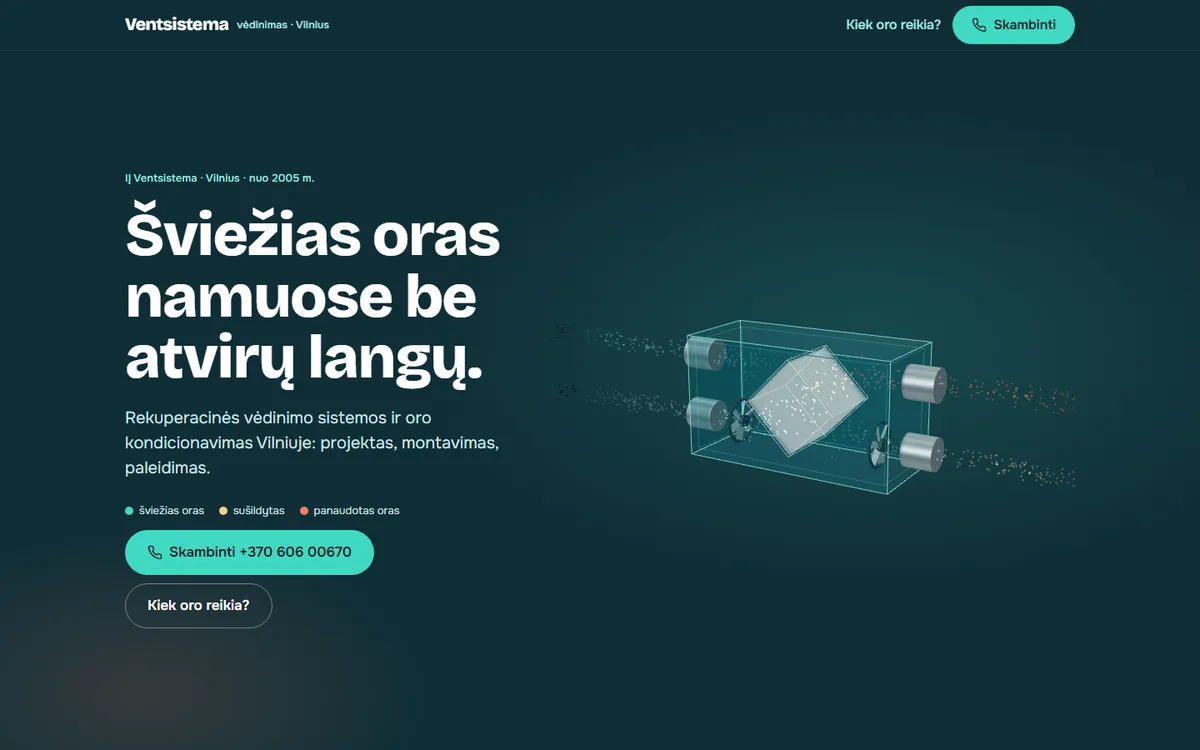
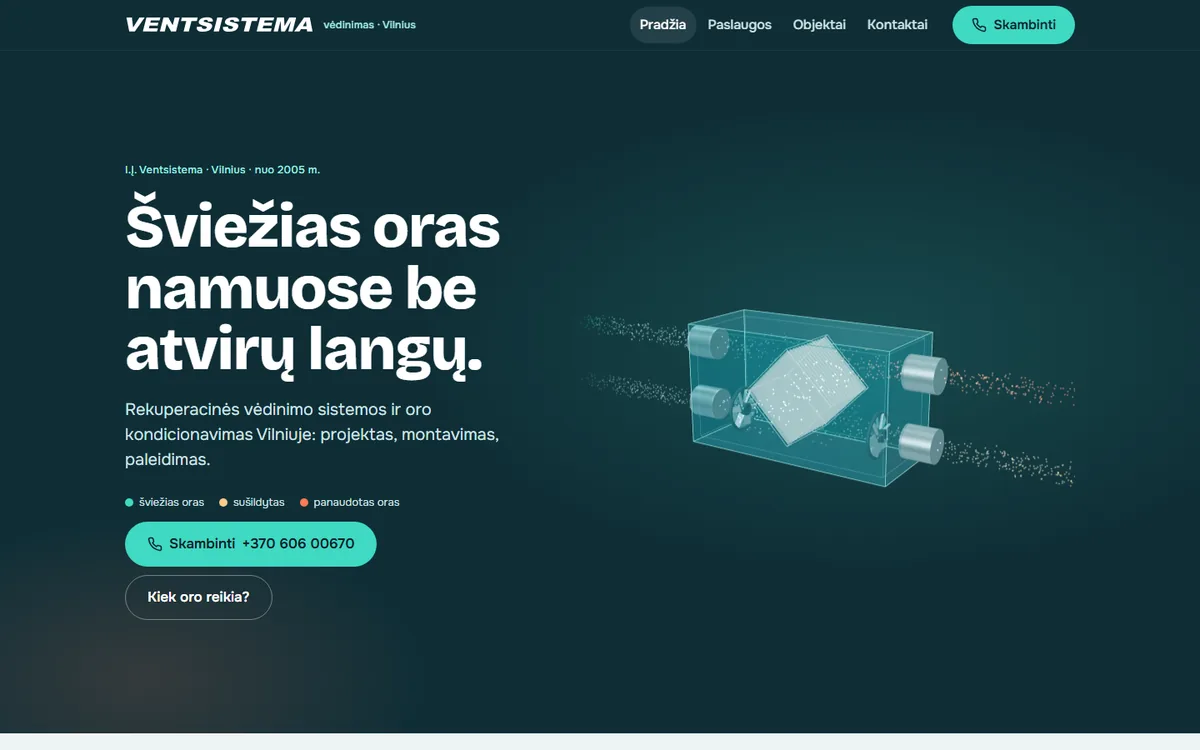
Ventsistema.lt is the third live client site; six new concepts (RORES/RV, Bliekorius, Mikulski, Lukgiedra, Eksortus, Logopedijos centras); Vytesa and MEBTEX point to their reworked concepts, re-shot; facts 34 concepts / 3 live; links on vasylian.com

diff --git a/assets/js/data.js b/assets/js/data.js
@@ -1,36 +1,42 @@
 /* Work list. Facts only: each entry is a public page built from the business's own materials.
-   The first two entries are live client sites; everything else is an unsolicited concept. */
+   The first three entries are live client sites; everything else is an unsolicited concept. */
 window.WORK = [
   { id: 'sos', name: 'Autopalīdzība.lv', place: 'Daugavpils, Latvia', craft: 'Towing 24/7', lang: 'Latvian', url: 'https://autopalidziba.lv/', live: true, tag: 'Live client site' },
   { id: 'vartu', name: 'Vārtu pasaule', place: 'Nītaure, Latvia', craft: 'Gates, doors, fences & automation', lang: 'Latvian', url: 'https://vartupasaule.lv/', live: true, tag: 'Live client site · 8 pages' },
-  { id: 'fineremont', name: 'Файний Ремонт', place: 'Kyiv, Ukraine', craft: 'Apartment renovation', lang: 'Ukrainian', url: 'https://vasilyanaptyp-oss.github.io/fineremont-concept/', tag: '3D gallery' },
-  { id: 'ripex', name: 'RIPEX', place: 'Alytus, Lithuania', craft: 'Machinery rental & construction', lang: 'Lithuanian', url: 'https://vasilyanaptyp-oss.github.io/ripex-concept/', tag: 'Rental request form' },
-  { id: 'kimela', name: 'Kimela', place: 'Klaipėda, Lithuania', craft: 'Truck & tanker wash', lang: 'Lithuanian', url: 'https://vasilyanaptyp-oss.github.io/kimela-concept/', tag: 'Booking by vehicle type' },
-  { id: 'tomi', name: 'Tomi Meble', place: 'Radom, Poland', craft: 'Fitted kitchens', lang: 'Polish', url: 'https://vasilyanaptyp-oss.github.io/tomi-meble-concept/', tag: 'Showroom and branch, six phones' },
-  { id: 'lirana', name: 'Lirana', place: 'Šilutė, Lithuania', craft: 'Windows, blinds & gates', lang: 'Lithuanian', url: 'https://vasilyanaptyp-oss.github.io/lirana-concept/', tag: 'Model picker' },
-  { id: 'dogroom', name: 'DoGroom', place: 'Riga, Latvia', craft: 'Dog & cat grooming', lang: 'Latvian', url: 'https://vasilyanaptyp-oss.github.io/dogroom-concept/', tag: 'Before/after gallery' },
-  { id: 'ards', name: 'ARDS Saldus', place: 'Saldus, Latvia', craft: 'Car service', lang: 'Latvian', url: 'https://vasilyanaptyp-oss.github.io/ards-concept/', tag: 'Service finder' },
-  { id: 'mebtex', name: 'MEBTEX', place: 'Riga, Latvia', craft: 'Carpentry & furniture', lang: 'Latvian', url: 'https://vasilyanaptyp-oss.github.io/mebtex-concept/', tag: 'Work-first homepage' },
-  { id: 'magicroof', name: 'Magic Roof', place: 'Linz, Austria', craft: 'Roofing & waterproofing', lang: 'German', url: 'https://vasilyanaptyp-oss.github.io/magic-roof-concept/', tag: 'Interactive services' },
-  { id: 'mekian', name: 'MEKIAN Bilverkstad', place: 'Täby, Sweden', craft: 'Car workshop', lang: 'Swedish', url: 'https://vasilyanaptyp-oss.github.io/mekian-concept/', tag: 'Booking-first' },
-  { id: 'janbra', name: 'JanBra OÜ', place: 'Kuusalu, Estonia', craft: 'Furniture assembly & joinery', lang: 'Estonian', url: 'https://vasilyanaptyp-oss.github.io/janbra-concept/', tag: '3D wardrobe assembles on scroll' },
-  { id: 'ventsistema', name: 'Ventsistema', place: 'Vilnius, Lithuania', craft: 'Ventilation & heat recovery', lang: 'Lithuanian', url: 'https://vasilyanaptyp-oss.github.io/ventsistema-concept/', tag: 'Live 3D recuperator, air calculator' },
-  { id: 'iguzuolaidos', name: 'IG užuolaidų salonas', place: 'Kelmė, Lithuania', craft: 'Curtains & blinds', lang: 'Lithuanian', url: 'https://vasilyanaptyp-oss.github.io/ig-uzuolaidos-concept/', tag: 'Opens like curtains on a rail' },
-  { id: 'tulu', name: 'TULU PH OÜ', place: 'Tartu, Estonia', craft: '24h locksmith', lang: 'Estonian', url: 'https://vasilyanaptyp-oss.github.io/tulu-ph-concept/', tag: 'Lock in cross-section, night mode' },
-  { id: 'vytesa', name: 'Vytesa', place: 'Kėdainiai, Lithuania', craft: 'Electrical installation', lang: 'Lithuanian', url: 'https://vasilyanaptyp-oss.github.io/vytesa-concept/', tag: 'Situations as breakers on a DIN rail' },
-  { id: 'klava', name: 'Dr. Laura Kļava', place: 'Iecava, Latvia', craft: 'Mobile veterinarian', lang: 'Latvian', url: 'https://vasilyanaptyp-oss.github.io/klava-vet-concept/', tag: 'Situation + pet + place → ready SMS' },
-  { id: 'grdarbi', name: 'GR DARBI', place: 'Kuldīga, Latvia', craft: 'Plastering, painting & finishing', lang: 'Latvian', url: 'https://vasilyanaptyp-oss.github.io/grdarbi-concept/', tag: 'A wall gets finished as you scroll' },
-  { id: 'viktorija', name: 'Med. kosmetologė Viktorija', place: 'Visaginas, Lithuania', craft: 'Medical cosmetology', lang: 'Lithuanian & Russian', url: 'https://vasilyanaptyp-oss.github.io/kosmetologe-viktorija-concept/', tag: 'One ring lamp lights the page' },
-  { id: 'impress', name: 'Impress', place: 'Utena, Lithuania', craft: 'Beauty salon', lang: 'Lithuanian', url: 'https://vasilyanaptyp-oss.github.io/impress-utena-concept/', tag: 'Scissors, dropper and brush drawn live' }
+  { id: 'ventsistema', name: 'Ventsistema', place: 'Vilnius, Lithuania', craft: 'Ventilation & heat recovery', lang: 'Lithuanian', url: 'https://ventsistema.lt/', live: true, tag: 'Live client site · 3D recuperator' },
+  { id: 'rores', name: 'RORES / RV', place: 'Riga, Latvia', craft: 'Heating, water & sewerage', lang: 'Latvian', url: 'https://vasylian.com/rores-rv-concept/', tag: 'House cross-section, boiler to tap' },
+  { id: 'bliekorius', name: 'MB Bliekorius', place: 'Plungė–Telšiai, Lithuania', craft: 'Roofing & sheet metal', lang: 'Lithuanian', url: 'https://vasylian.com/bliekorius-concept-v2/', tag: 'Flashing drawn with its dimensions' },
+  { id: 'autoplock', name: 'Mikulski', place: 'Płock, Poland', craft: 'Car body repair & paint', lang: 'Polish', url: 'https://vasylian.com/mikulski-concept/', tag: 'Pick what happened to the car' },
+  { id: 'lukgiedra', name: 'Lukgiedra', place: 'Alytus, Lithuania', craft: 'Construction & finishing', lang: 'Lithuanian', url: 'https://vasylian.com/lukgiedra-concept/', tag: 'Site-board hero on a real build' },
+  { id: 'eksortus', name: 'Eksortus', place: 'Dreiliņi, Latvia', craft: 'Electrical installation', lang: 'Latvian', url: 'https://vasylian.com/eksortus-concept/', tag: 'L, N, PE wired into the page' },
+  { id: 'logoped', name: 'Logopedijos ir pedagogikos centras', place: 'Klaipėda, Lithuania', craft: 'Speech therapy & special education', lang: 'Lithuanian', url: 'https://vasylian.com/logopedijos-centras-concept/', tag: 'Seven specialists as pencils' },
+  { id: 'fineremont', name: 'Файний Ремонт', place: 'Kyiv, Ukraine', craft: 'Apartment renovation', lang: 'Ukrainian', url: 'https://vasylian.com/fineremont-concept/', tag: '3D gallery' },
+  { id: 'ripex', name: 'RIPEX', place: 'Alytus, Lithuania', craft: 'Machinery rental & construction', lang: 'Lithuanian', url: 'https://vasylian.com/ripex-concept/', tag: 'Rental request form' },
+  { id: 'kimela', name: 'Kimela', place: 'Klaipėda, Lithuania', craft: 'Truck & tanker wash', lang: 'Lithuanian', url: 'https://vasylian.com/kimela-concept/', tag: 'Booking by vehicle type' },
+  { id: 'tomi', name: 'Tomi Meble', place: 'Radom, Poland', craft: 'Fitted kitchens', lang: 'Polish', url: 'https://vasylian.com/tomi-meble-concept/', tag: 'Showroom and branch, six phones' },
+  { id: 'lirana', name: 'Lirana', place: 'Šilutė, Lithuania', craft: 'Windows, blinds & gates', lang: 'Lithuanian', url: 'https://vasylian.com/lirana-concept/', tag: 'Model picker' },
+  { id: 'dogroom', name: 'DoGroom', place: 'Riga, Latvia', craft: 'Dog & cat grooming', lang: 'Latvian', url: 'https://vasylian.com/dogroom-concept/', tag: 'Before/after gallery' },
+  { id: 'ards', name: 'ARDS Saldus', place: 'Saldus, Latvia', craft: 'Car service', lang: 'Latvian', url: 'https://vasylian.com/ards-concept/', tag: 'Service finder' },
+  { id: 'mebtex', name: 'MEBTEX', place: 'Riga, Latvia', craft: 'Carpentry & furniture', lang: 'Latvian, Russian & English', url: 'https://vasylian.com/mebtex-lv-concept/', tag: 'Furniture, yachts & shutters, real photos' },
+  { id: 'magicroof', name: 'Magic Roof', place: 'Linz, Austria', craft: 'Roofing & waterproofing', lang: 'German', url: 'https://vasylian.com/magic-roof-concept/', tag: 'Interactive services' },
+  { id: 'mekian', name: 'MEKIAN Bilverkstad', place: 'Täby, Sweden', craft: 'Car workshop', lang: 'Swedish', url: 'https://vasylian.com/mekian-concept/', tag: 'Booking-first' },
+  { id: 'janbra', name: 'JanBra OÜ', place: 'Kuusalu, Estonia', craft: 'Furniture assembly & joinery', lang: 'Estonian', url: 'https://vasylian.com/janbra-concept/', tag: '3D wardrobe assembles on scroll' },
+  { id: 'iguzuolaidos', name: 'IG užuolaidų salonas', place: 'Kelmė, Lithuania', craft: 'Curtains & blinds', lang: 'Lithuanian', url: 'https://vasylian.com/ig-uzuolaidos-concept/', tag: 'Opens like curtains on a rail' },
+  { id: 'tulu', name: 'TULU PH OÜ', place: 'Tartu, Estonia', craft: '24h locksmith', lang: 'Estonian', url: 'https://vasylian.com/tulu-ph-concept/', tag: 'Lock in cross-section, night mode' },
+  { id: 'vytesa', name: 'Vytesa', place: 'Kėdainiai, Lithuania', craft: 'Electrical & welding work', lang: 'Lithuanian', url: 'https://vasylian.com/vytesa-mb-concept/', tag: 'Two trades, call the right person' },
+  { id: 'klava', name: 'Dr. Laura Kļava', place: 'Iecava, Latvia', craft: 'Mobile veterinarian', lang: 'Latvian', url: 'https://vasylian.com/klava-vet-concept/', tag: 'Situation + pet + place → ready SMS' },
+  { id: 'grdarbi', name: 'GR DARBI', place: 'Kuldīga, Latvia', craft: 'Plastering, painting & finishing', lang: 'Latvian', url: 'https://vasylian.com/grdarbi-concept/', tag: 'A wall gets finished as you scroll' },
+  { id: 'viktorija', name: 'Med. kosmetologė Viktorija', place: 'Visaginas, Lithuania', craft: 'Medical cosmetology', lang: 'Lithuanian & Russian', url: 'https://vasylian.com/kosmetologe-viktorija-concept/', tag: 'One ring lamp lights the page' },
+  { id: 'impress', name: 'Impress', place: 'Utena, Lithuania', craft: 'Beauty salon', lang: 'Lithuanian', url: 'https://vasylian.com/impress-utena-concept/', tag: 'Scissors, dropper and brush drawn live' }
 ];
 window.MORE = [
-  { id: 'alarm3', name: 'ALARM3', place: 'Riga, Latvia', craft: 'Car service', url: 'https://vasilyanaptyp-oss.github.io/alarm3-concept/' },
-  { id: 'woodenlays', name: 'Wooden Lays', place: 'Latvia', craft: 'House construction', url: 'https://vasilyanaptyp-oss.github.io/woodenlays-concept/' },
-  { name: 'KARARTI', url: 'https://vasilyanaptyp-oss.github.io/kararti-demo/' },
-  { name: 'Baldita', url: 'https://vasilyanaptyp-oss.github.io/baldita-koncept/' },
-  { name: 'Pastnieka Māja', url: 'https://vasilyanaptyp-oss.github.io/pastnieka-maja-concept/' },
-  { name: 'Szafranowy Dwór', url: 'https://vasilyanaptyp-oss.github.io/szafranowy-dwor-koncept/' },
-  { name: 'Sala Finezja', url: 'https://vasilyanaptyp-oss.github.io/finezja-koncept/' }
+  { id: 'alarm3', name: 'ALARM3', place: 'Riga, Latvia', craft: 'Car service', url: 'https://vasylian.com/alarm3-concept/' },
+  { id: 'woodenlays', name: 'Wooden Lays', place: 'Latvia', craft: 'House construction', url: 'https://vasylian.com/woodenlays-concept/' },
+  { name: 'KARARTI', url: 'https://vasylian.com/kararti-demo/' },
+  { name: 'Baldita', url: 'https://vasylian.com/baldita-koncept/' },
+  { name: 'Pastnieka Māja', url: 'https://vasylian.com/pastnieka-maja-concept/' },
+  { name: 'Szafranowy Dwór', url: 'https://vasylian.com/szafranowy-dwor-koncept/' },
+  { name: 'Sala Finezja', url: 'https://vasylian.com/finezja-koncept/' }
 ];
 /* Before/after pairs: the old site captured on a phone vs. the concept. Needs <id>-old-m.webp. */
 window.PAIRS = ['ripex', 'fineremont', 'tomi', 'alarm3'];

diff --git a/index.html b/index.html
@@ -4,7 +4,7 @@
 <meta charset="utf-8">
 <meta name="viewport" content="width=device-width, initial-scale=1, viewport-fit=cover">
 <title>Artur Vasilyan — websites for people who work with their hands</title>
-<meta name="description" content="Web designer and developer. I build a free homepage concept for small craft businesses across Europe and charge a flat 300 € only if they say yes. 28 concepts in Latvia, Lithuania, Estonia, Poland, Ukraine, Austria and Sweden.">
+<meta name="description" content="Web designer and developer. I build a free homepage concept for small craft businesses across Europe and charge a flat 300 € only if they say yes. 34 concepts in Latvia, Lithuania, Estonia, Poland, Ukraine, Austria and Sweden.">
 <meta name="theme-color" content="#f4f1ea" media="(prefers-color-scheme: light)">
 <meta name="theme-color" content="#141412" media="(prefers-color-scheme: dark)">
 <meta name="color-scheme" content="light dark">
@@ -60,8 +60,8 @@
       <a class="link" id="cta2" href="#before">How the old site looked →</a>
     </div>
     <ul class="hero__facts" aria-label="Facts">
-      <li><b>28</b><span>concepts built</span></li>
-      <li><b>2</b><span>live client sites</span></li>
+      <li><b>34</b><span>concepts built</span></li>
+      <li><b>3</b><span>live client sites</span></li>
       <li><b>7</b><span>countries</span></li>
       <li><b>300&nbsp;€</b><span>once, no monthly fees</span></li>
     </ul>
@@ -102,8 +102,8 @@ if(code!=='en')window.applyPitch(code);})();
   <div class="wrap">
     <div class="sec__head">
       <p class="eyebrow">Work</p>
-      <h2>Two clients already live with their new sites. Twenty-six more got a concept they never asked for.</h2>
-      <p class="lead">That is how the free step works. The first two cards are live client sites. The rest are concepts built from each company’s public materials, not commissioned by them. Tap a card to open the page.</p>
+      <h2>Three clients already live with their new sites. Thirty-one more got a concept they never asked for.</h2>
+      <p class="lead">That is how the free step works. The first three cards are live client sites. The rest are concepts built from each company’s public materials, not commissioned by them. Tap a card to open the page.</p>
     </div>
     <div class="grid" id="grid"></div>
     <p class="more" id="more"></p>
